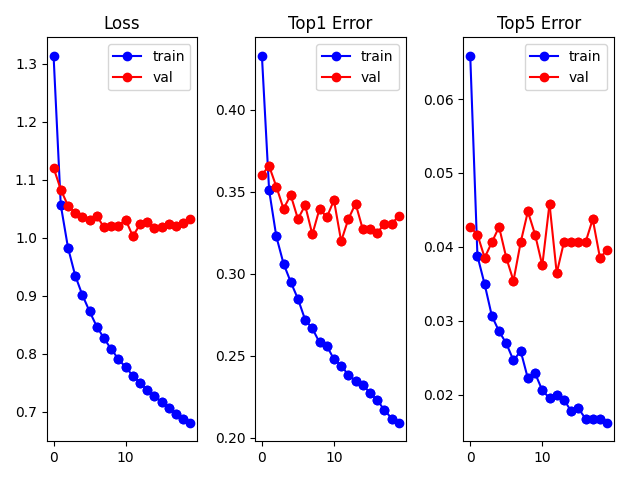
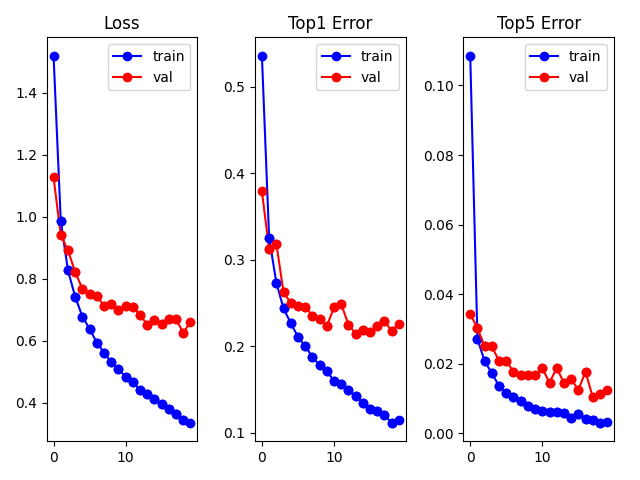
Coding complete for assignment 2

diff --git a/A2/python_starter_code/model.py b/A2/python_starter_code/model.py
@@ -10,27 +10,35 @@ class CNN(nn.Module):
         
         """
         self.layer1 = nn.Conv2d(1,8,7,stride=1,padding=0,bias=False)
+        torch.nn.init.kaiming_uniform_(self.layer1.weight)
         self.norm1 = nn.LayerNorm([8,106,106])
         self.leakyReLU1 = nn.LeakyReLU(0.01)
         self.maxPooling1 = nn.MaxPool2d(2,2)
 
         ####################################
         self.deepConv = nn.Conv2d(in_channels=8,out_channels=8,kernel_size=7,stride=2,padding=0,groups=8,bias=False)
+        torch.nn.init.kaiming_uniform_(self.deepConv.weight)
         self.norm2 = nn.LayerNorm([8,24,24])
         self.leakyReLU2 = nn.LeakyReLU(0.01)
         self.maxPooling2 = nn.MaxPool2d(2,2)
-        self.pointWiseConv = nn.Conv2d(in_channels=8, out_channels=16, kernel_size=1,stride=1,padding=0,bias=False)
+        self.pointWiseConv = nn.Conv2d(in_channels=8, out_channels=16, kernel_size=1,stride=1,padding=0,bias=True)
+        torch.nn.init.xavier_uniform(self.pointWiseConv.weight)
 
         ########################################
 
         self.deepConv2 = nn.Conv2d(in_channels=16,out_channels=16,kernel_size=7,stride=1,padding=0,groups=16,bias=False)
+        torch.nn.init.kaiming_uniform_(self.deepConv2.weight)
         self.norm3 = nn.LayerNorm([16,6,6])
         self.leakyReLU3 = nn.LeakyReLU(0.01)
         self.maxPooling3 = nn.MaxPool2d(2,2)
-        self.pointWiseConv2 = nn.Conv2d(in_channels=16, out_channels=32, kernel_size=1,stride=1,padding=0,bias=False)
+        self.pointWiseConv2 = nn.Conv2d(in_channels=16, out_channels=32, kernel_size=1,stride=1,padding=0,bias=True)
+        torch.nn.init.xavier_uniform(self.pointWiseConv2.weight)
+
         
 
         self.fullyConnectedConv = nn.Conv2d(in_channels=32,out_channels=10,kernel_size=3,bias=True)
+        torch.nn.init.xavier_uniform(self.fullyConnectedConv.weight)
+
 
         # change this obviously!
         self.naive = nn.Conv2d(in_channels=1, out_channels=num_classes, kernel_size=112, stride=1, padding=0, bias=True)

diff --git a/A2/python_starter_code/run.py b/A2/python_starter_code/run.py
@@ -7,12 +7,12 @@ train_path = './dataset/train'
 test_path = './dataset/test'
 
 # TRAIN
-model, info = trainMVShapeClassifier(train_path, cuda=True, verbose=False)
+model, info = trainMVShapeClassifier(train_path, cuda=False, verbose=False)
 #
 # # TO SAVE TIME for just testing code, uncomment the following 2 lines to load your pre-trained model
 # model = torch.load('model/model_epoch_19.pth', map_location=lambda storage, location: storage)["model"]
 # info = p.load( open( "info.p", "rb" ) )
 
 # TEST
-testMVImageClassifier(test_path, model, info, pooling='mean', cuda=True, verbose=False)
-testMVImageClassifier(test_path, model, info, pooling='max', cuda=True, verbose=False)
+testMVImageClassifier(test_path, model, info, pooling='mean', cuda=False, verbose=False)
+testMVImageClassifier(test_path, model, info, pooling='max', cuda=False, verbose=False)

diff --git a/A2/python_starter_code/testMVImageClassifier.py b/A2/python_starter_code/testMVImageClassifier.py
@@ -50,7 +50,15 @@ def testMVImageClassifier(dataset_path, model, info, pooling = 'mean', cuda=Fals
                >> pooling = 'mean' or pooling = 'max'
             
              '''
+            
             predicted_label = 0 # obviously change this
+            if pooling == "max":
+                predicted_label = np.argmax(np.max(scores,axis=0))
+            else:
+                predicted_label = np.argmax(np.mean(scores,axis=0))
+
+
+
             if predicted_label != idx:
                 test_err += 1
 

diff --git a/A2/python_starter_code/trainMVShapeClassifier.py b/A2/python_starter_code/trainMVShapeClassifier.py
@@ -32,7 +32,7 @@ def trainMVShapeClassifier(dataset_path, cuda=False, verbose=False):
 
     # Read all PNG images and their category information, and save them in numpy matrix.
     # (could be commented out after first run
-    # save_data(dataset_path)
+    save_data(dataset_path)
 
     # Load saved numpy matrix
     data, info = load_data()
